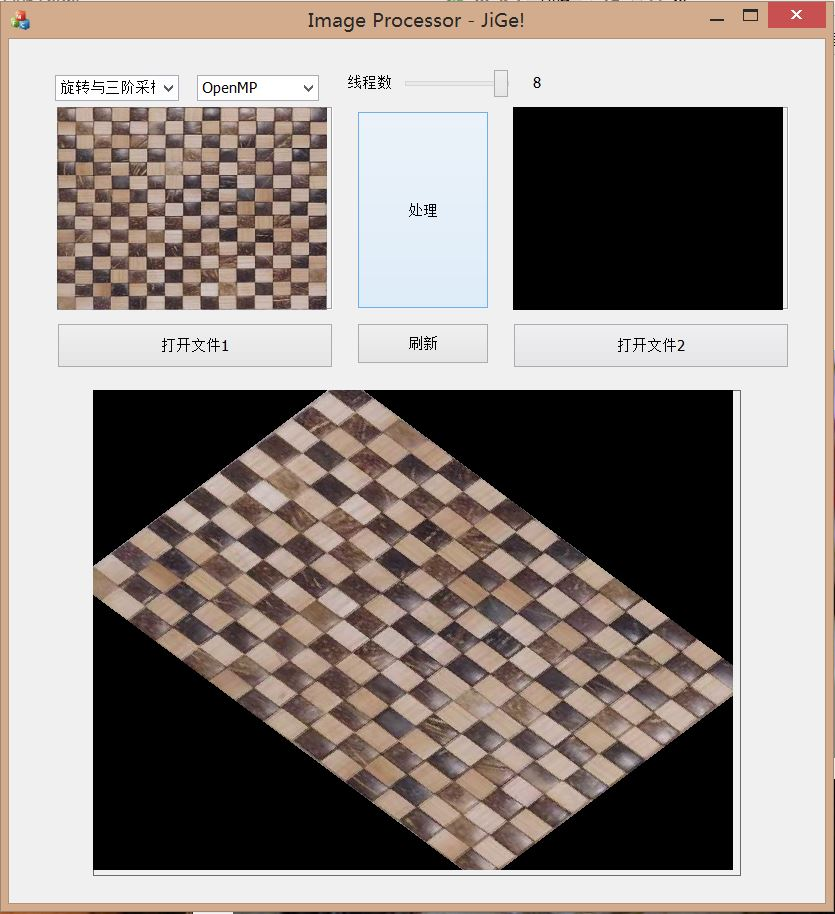
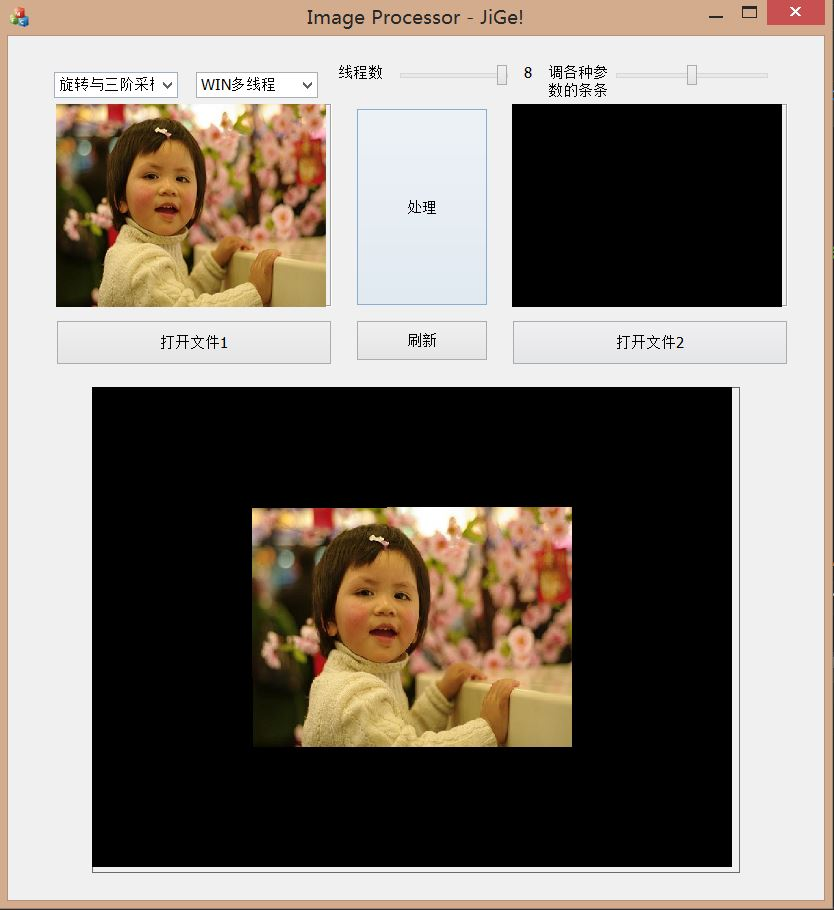
rotation with Hermite interpolation
a liitle bug fixing and modification of image rotation

diff --git a/ExperimentImg/ImageProcessor.h b/ExperimentImg/ImageProcessor.h
@@ -103,6 +103,7 @@ struct ThreadParam_Rotation
 	int startIndex;
 	int endIndex;
 	float radianAngle;
+	float scaleFactor;
 };
 
 struct ThreadParam_AutoLevels
@@ -151,8 +152,8 @@ public:
 	static UINT AddNoise_WIN(CImage* pImgSrc, CImage* pImgDest, int numThreads);
 	static UINT AddNoise_OpenMP(CImage* pImgSrc, CImage* pImgDest, int numThreads);
 
-	static UINT Rotate_WIN(CImage* pImgSrc, CImage* pImgDest, int numThreads, float radianAngle);
-	static UINT Rotate_OpenMP(CImage* pImgSrc, CImage* pImgDest, int numThreads, float radianAngle);
+	static UINT Rotate_WIN(CImage* pImgSrc, CImage* pImgDest, int numThreads, float radianAngle, float scaleFactor);
+	static UINT Rotate_OpenMP(CImage* pImgSrc, CImage* pImgDest, int numThreads, float radianAngle, float scaleFactor);
 
 	static UINT AutoLevels_OpenMP(CImage* pImgSrc, CImage* pImgDest, int numThreads);
 

diff --git a/ExperimentImg/ExperimentImgDlg.h b/ExperimentImg/ExperimentImgDlg.h
@@ -47,7 +47,7 @@ private:
 
 	void		mFunction_AddNoise();
 
-	void		mFunction_Rotate(float angle);
+	void		mFunction_Rotate();
 
 	void		mFunction_AutoLevels();
 
